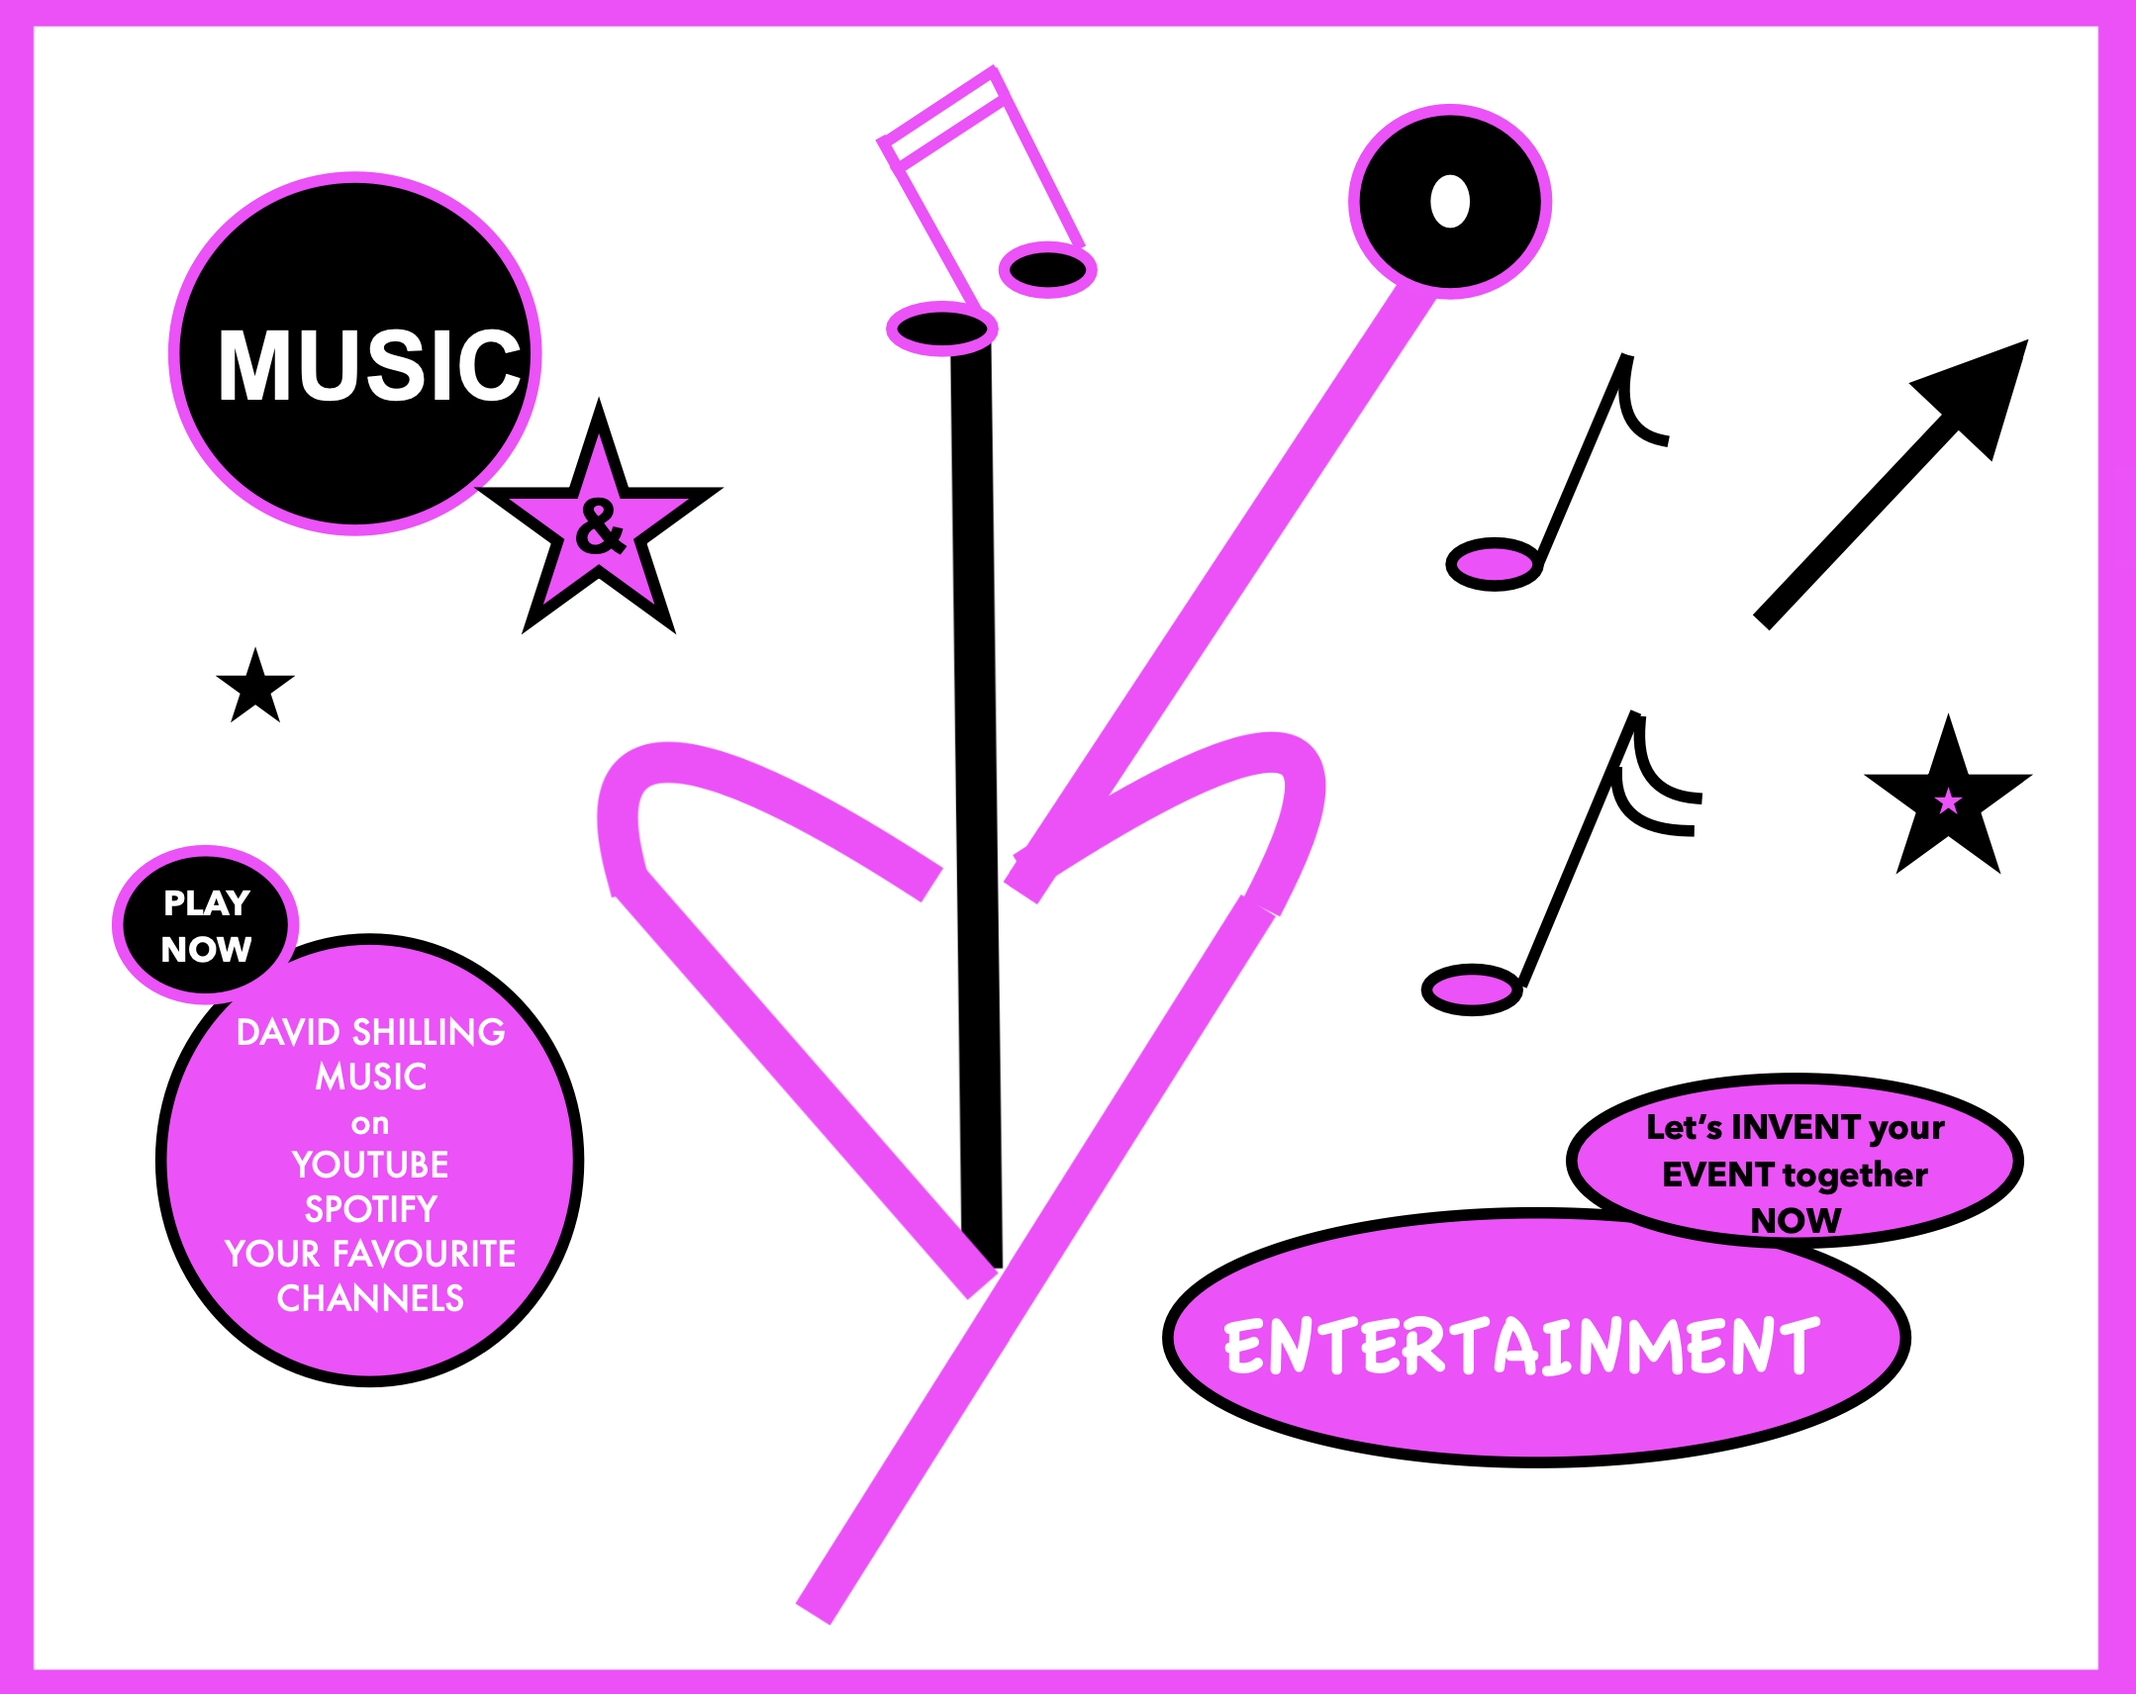
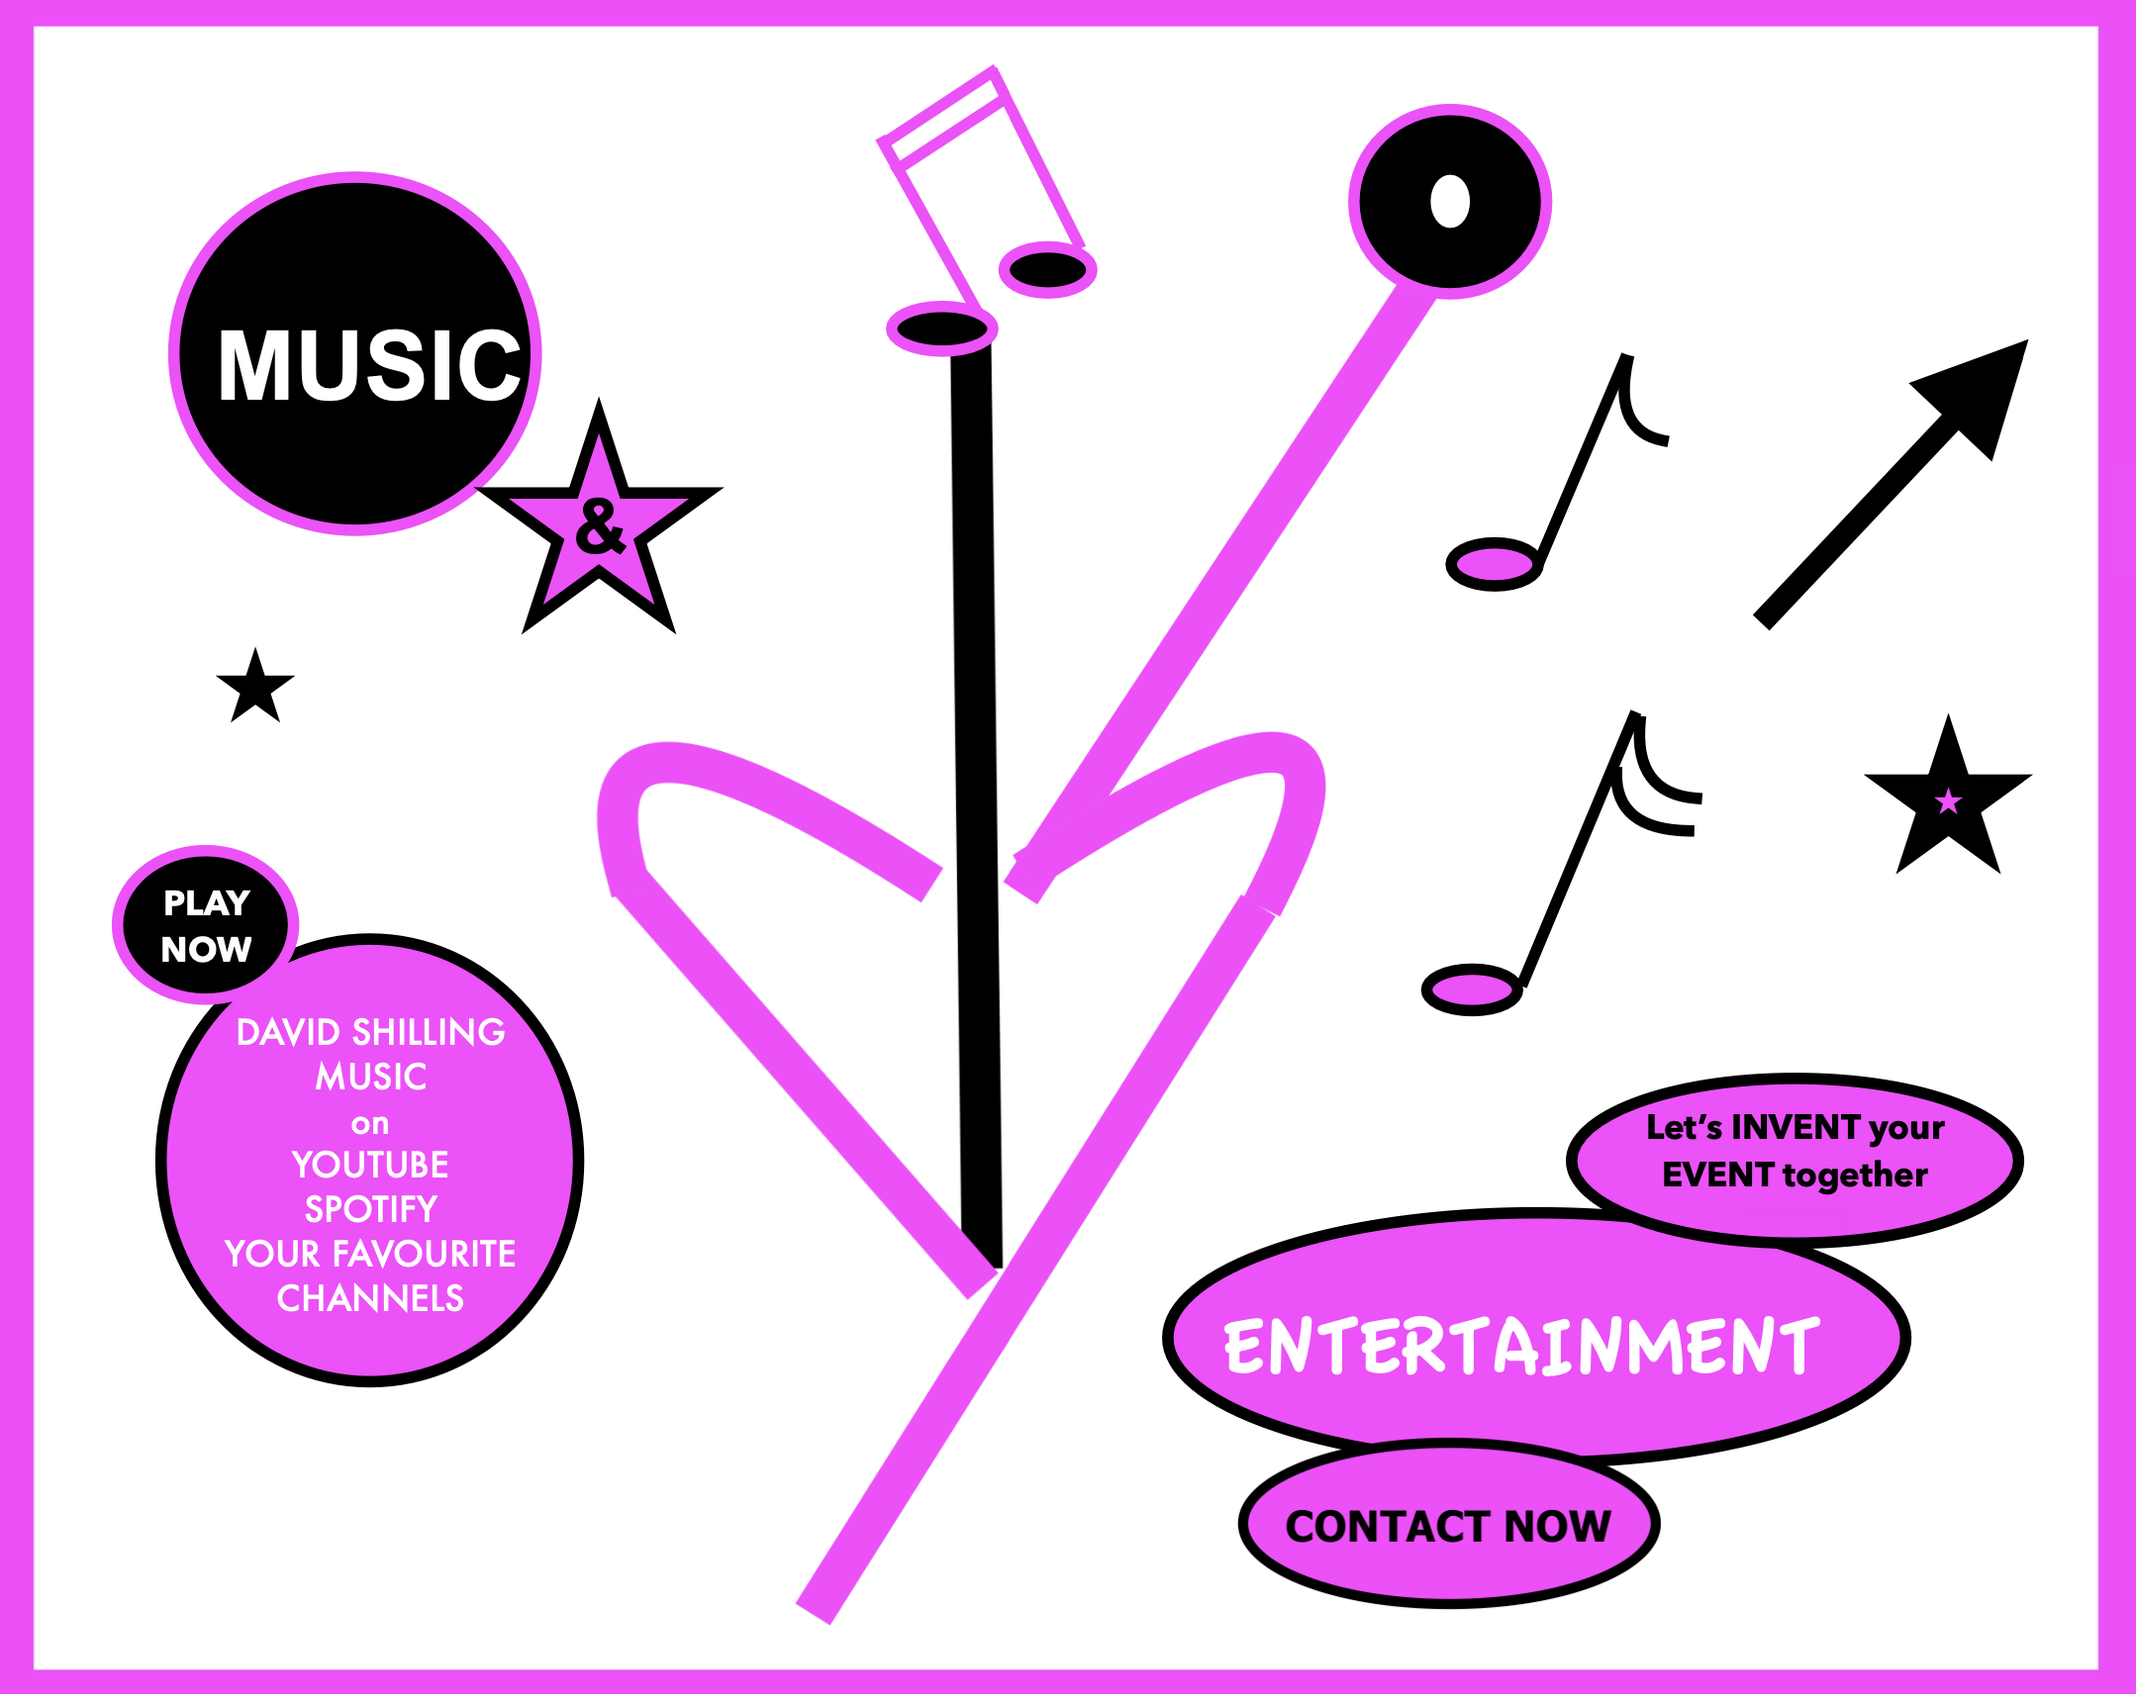
some quick fixes dunno

Changed region(s): [[0.5589, 0.8359, 0.7762, 0.9597], [0.8072, 0.712, 0.8693, 0.743]]

diff --git a/static/index.js b/static/index.js
@@ -61,13 +61,17 @@ function hideOverlay (e) {
    }
     }
     else if (d.getAttribute('src').includes('Music')) {
-        if (e.offsetX / d.offsetWidth > 60 / 1075 && e.offsetX / d.offsetWidth < 150 / 1075 & e.offsetY / d.offsetHeight > 330 / 850 & e.offsetY / d.offsetHeight < 505 / 850){
+        if (e.offsetX / d.offsetWidth > 463 / 807 && e.offsetX / d.offsetWidth < 631 / 807 & e.offsetY / d.offsetHeight > 547 / 640 & e.offsetY / d.offsetHeight < 609 / 640){
+            window.location.href = '/contact.html'
+            return
+        }
+        else if (e.offsetX / d.offsetWidth > 60 / 1075 && e.offsetX / d.offsetWidth < 150 / 1075 & e.offsetY / d.offsetHeight > 330 / 850 & e.offsetY / d.offsetHeight < 505 / 850){
             window.open('https://www.youtube.com/watch?v=flv6BGBM61I&list=PLsXT5YSKmoLD3iZlOv7rv3KsFKCVZBHBY')
             return
         }
     }
     else if (d.getAttribute('src').includes('LAD')) {
-        if (e.offsetX / d.offsetWidth > 100 / 1075 && e.offsetX / d.offsetWidth < 240 / 1075 & e.offsetY / d.offsetHeight > 550 / 850 & e.offsetY / d.offsetHeight < 720 / 850){
+        if (e.offsetX / d.offsetWidth > 115 / 804 && e.offsetX / d.offsetWidth < 162 / 804 & e.offsetY / d.offsetHeight > 478/640 & e.offsetY / d.offsetHeight < 610/640){
             document.getElementById('overlayImage').hidden = true
             showOverlay('lad')
             return
@@ -144,6 +148,12 @@ onload = (event) => {
     window.dispatchEvent(new Event('resize'));
 }
 
+window.addEventListener('pageshow', function(event) {
+    if (event.persisted) {
+       this.location.reload()
+    }
+});
+
 onresize = (event) => {
     if (getPathFromURL() == "" || getPathFromURL() == "index" ) {
         centreSize()
@@ -217,3 +227,20 @@ function showOverlay(name) {
     document.getElementById(`overlay${name}`).hidden = false
     document.getElementById('tint').hidden = false
 }
+
+function validateForm(n) {
+    // Get form elements
+    var form = document.getElementById(`myForm${n}`);
+    var inputs = form.getElementsByTagName("input");
+
+    // Check if all fields are filled
+    for (var i = 0; i < inputs.length; i++) {
+      if (inputs[i].type !== "submit" && inputs[i].value === "") {
+        alert("Please fill out all fields");
+        return false; // Prevent form submission
+      }
+    }
+    alert('Email submitted for updates!')
+    // If all fields are filled, submit the form
+    return true;
+  }

diff --git a/index.html b/index.html
@@ -60,7 +60,7 @@
         <iframe id="overlaylad" class='overlayVideo' src='https://www.youtube.com/embed/ZKKNLffCxrw?enablejsapi=1&version=3&playerapiid=ytplayer&loop=1&playlist=ZKKNLffCxrw'></iframe>
     </div>
     <div id='overlayUpdates' class="overlay" hidden="true">
-        <form action="https://api.staticforms.xyz/submit" method="post" onsubmit="alert('Email submitted for updates!')">
+        <form id='myForm4' action="https://api.staticforms.xyz/submit" method="post" onsubmit="return validateForm(4)">
                 <input type="name" id="name" name='name' placeholder="...">
                 <br>
                 <input type="email" id="email" name='email' placeholder="...">

diff --git a/contact.html b/contact.html
@@ -75,9 +75,6 @@
 
             <label for="telephone">Telephone (Optional)</label>
             <input type="telephone" id="telephone" name='$telephone' placeholder="Enter your telephone number">
-            
-            <label for="Organisation">Organisation</label>
-            <input type="organisation" id="organisation" name='$organisation' placeholder="Enter your publication / media outlet's name, or 'independent' otherwise">
 
             <label for="name">Country</label>
             <input type="text" id="country" name="$country" placeholder="Enter your country of residence">

diff --git a/static/contact.js b/static/contact.js
@@ -39,7 +39,7 @@ function validateForm(n) {
 
     // Check if all fields are filled
     for (var i = 0; i < inputs.length; i++) {
-      if (inputs[i].type !== "submit" && inputs[i].value === "") {
+      if (inputs[i].name !== "$telephone" && inputs[i].type !== "submit" && inputs[i].value === "") {
         alert("Please fill out all fields");
         return false; // Prevent form submission
       }
